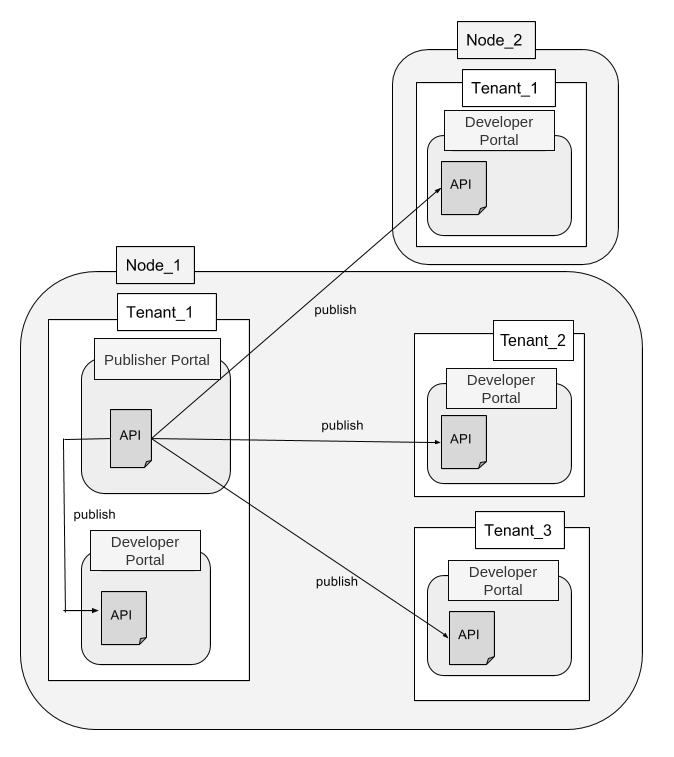
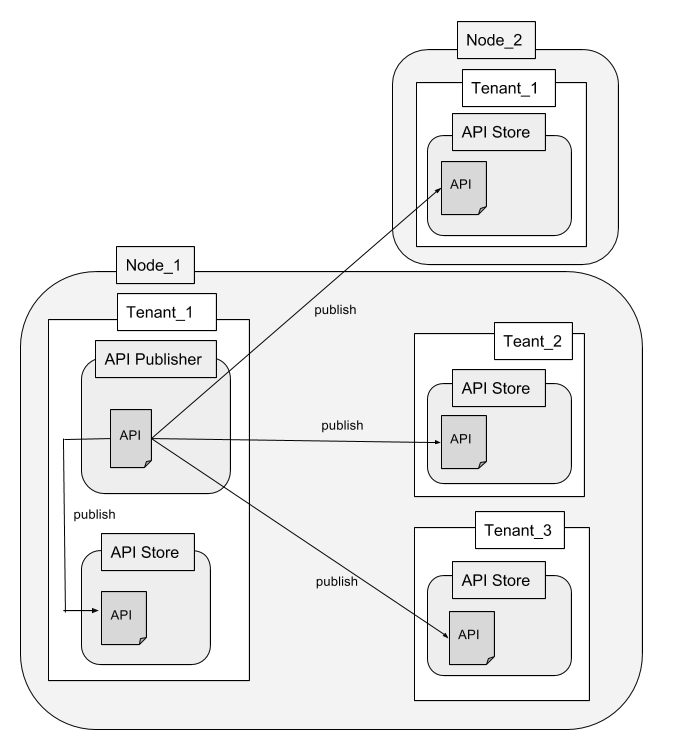
fix for https://github.com/wso2/docs-apim/issues/1387

diff --git a/en/docs/learn/design-api/publish-api/publish-to-multiple-external-api-stores.md b/en/docs/learn/design-api/publish-api/publish-to-multiple-external-api-stores.md
@@ -4,7 +4,9 @@ You can share an API with application developers who are subscribed to the Devel
 
 The following diagram illustrates the process involved when an API Publisher publishes to multiple Developer Portals.
 
-[![Publish to Multiple Developer Portals]({{base_path}}/assets/img/learn/publish-to-multiple-developer-portals.png)]({{base_path}}/assets/img/learn/publish-to-multiple-developer-portals.png)
+<img src="{{base_path}}/assets/img/learn/publish-to-multiple-developer-portals.png" alt="Illustrates the process involved when an API Publisher publishes to multiple Developer Portals" title="Illustrates the process involved when an API Publisher publishes to multiple Developer Portals" width="75%" />
+
+<a name="step8"> </a>
 
 The API Publisher of Tenant\_1, that is located in Node\_1, publishes an API to it's API Developer Portal. In addition, the API Publisher publishes the API to the following three external Developer Portals.
 
